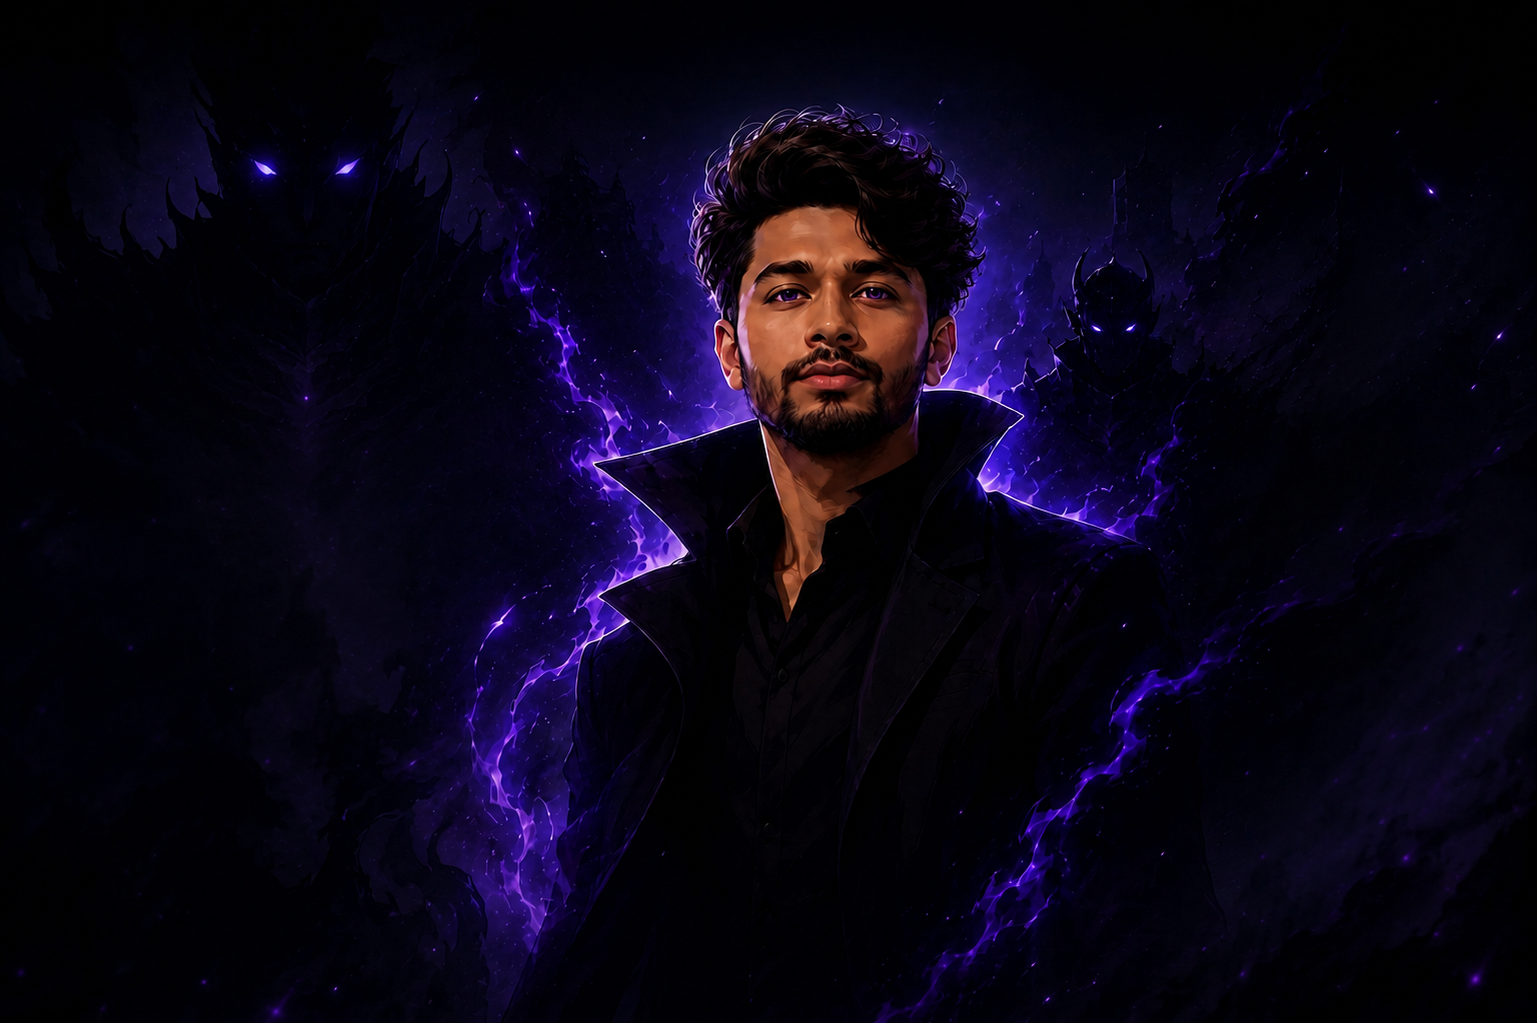
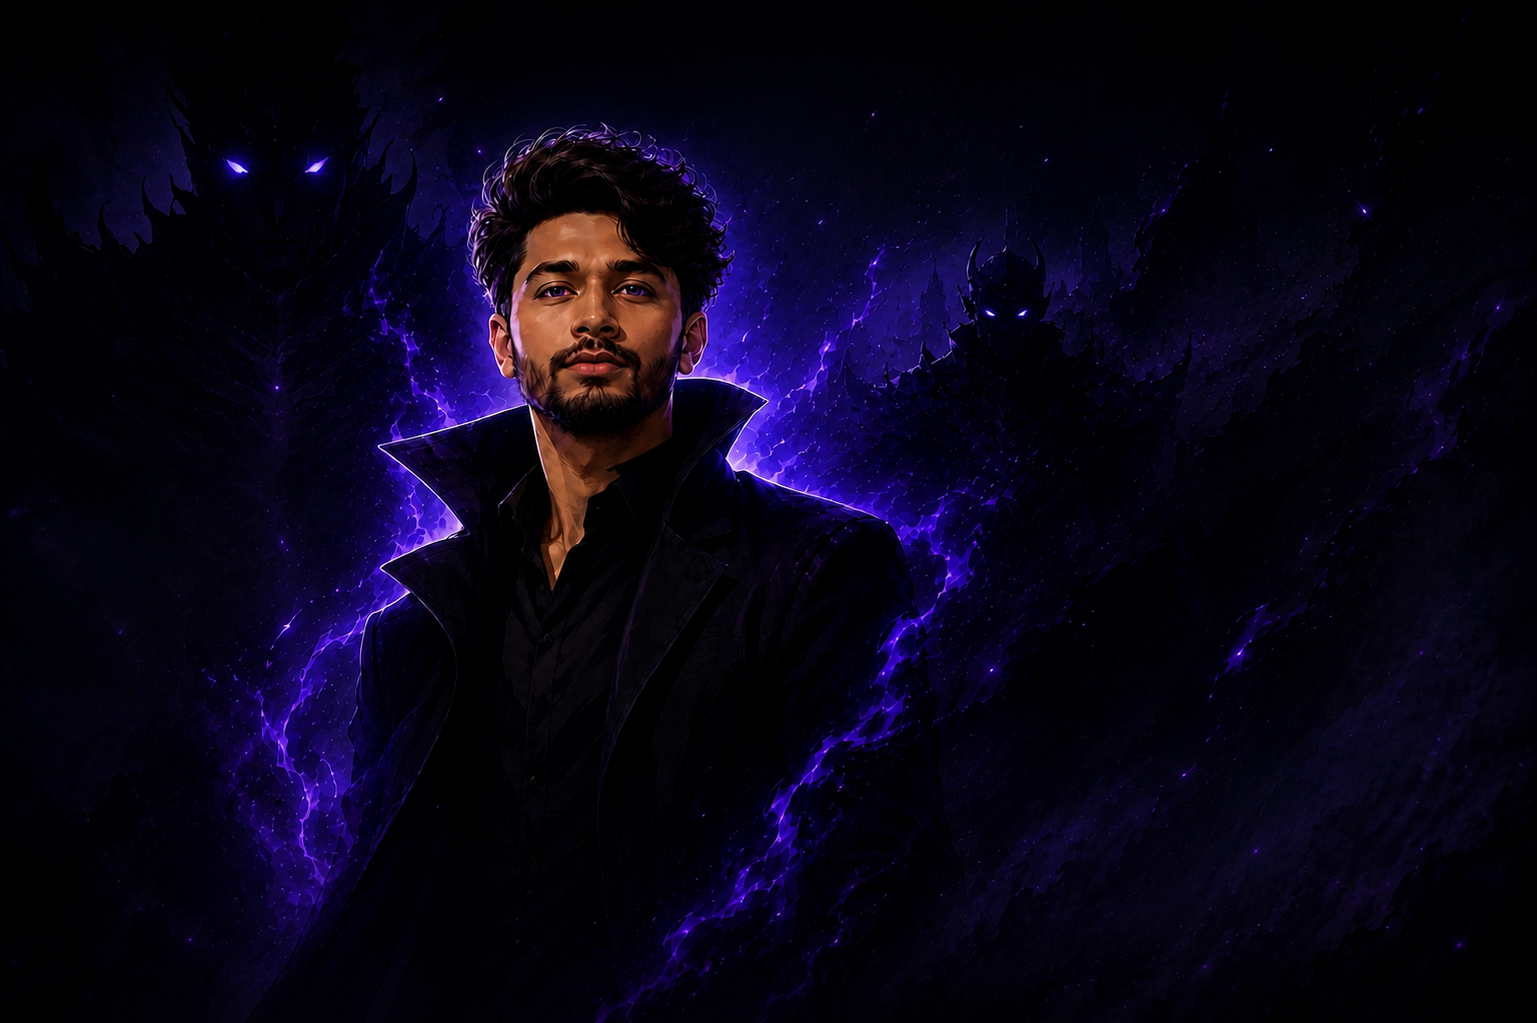
fix: update Hero section background handling for improved visual consistency

diff --git a/src/sections/Hero.tsx b/src/sections/Hero.tsx
@@ -100,9 +100,11 @@ export default function Hero() {
       {/* ---- Full-bleed background image (the cinematic monarch art) ---- */}
       {identity.heroBackground && (
         <div
-          className="hero-character absolute inset-0 z-0 bg-cover bg-center bg-no-repeat"
+          className="hero-character absolute inset-0 z-0 bg-no-repeat"
           style={{
             backgroundImage: `url(${import.meta.env.BASE_URL}${identity.heroBackground})`,
+            backgroundSize: "110%",
+            backgroundPosition: "0% 15%",
           }}
         />
       )}
@@ -111,11 +113,12 @@ export default function Hero() {
           - left→right dark gradient so the headline text stays readable
           - bottom fade so the hero blends into the next section
           - subtle mana tint */}
-      <div className="absolute inset-0 z-0 bg-[linear-gradient(100deg,rgba(5,3,12,0.95)_0%,rgba(5,3,12,0.7)_35%,rgba(5,3,12,0.25)_60%,rgba(5,3,12,0.55)_100%)]" />
+      <div className="absolute inset-0 z-0 bg-[linear-gradient(100deg,rgba(5,3,12,0.92)_0%,rgba(5,3,12,0.55)_30%,rgba(5,3,12,0.0)_50%,rgba(5,3,12,0.3)_100%)]" />
       <div className="absolute inset-0 z-0 bg-[radial-gradient(ellipse_at_50%_35%,rgba(109,40,217,0.25),transparent_65%)]" />
       <div className="absolute inset-x-0 bottom-0 z-0 h-40 bg-linear-to-t from-abyss to-transparent" />
 
-      <div className="relative z-10 mx-auto grid min-h-screen w-full grid-cols-1 items-center gap-8 px-8 pt-24 pb-16 lg:grid-cols-[1.2fr_0.8fr] xl:px-20 2xl:px-32">
+
+      <div className="relative z-10 mx-auto grid min-h-screen w-full grid-cols-1 items-center gap-8 px-8 pt-24 pb-16 lg:grid-cols-[1.2fr_0.8fr] xl:px-20 2xl:px-32 lg:pl-32 xl:pl-48">
         {/* ---- LEFT: headline text ---- */}
         <div className="hero-text">
           <p className="mb-3 text-sm tracking-[0.3em] text-mana-bright">
@@ -148,7 +151,7 @@ export default function Hero() {
         </div>
 
         {/* ---- RIGHT: HUD stat panel ---- */}
-        <div className="hero-hud hidden flex-col gap-6 lg:flex">
+        <div className="hero-hud hidden flex-col gap-6 lg:flex lg:pl-28 xl:pl-40">
           <div className="rounded-lg border border-mana/20 bg-abyss/50 p-5 backdrop-blur-sm">
             <p className="mb-3 text-xs tracking-[0.3em] text-system">EXPERIENCE</p>
             <div className="space-y-3">